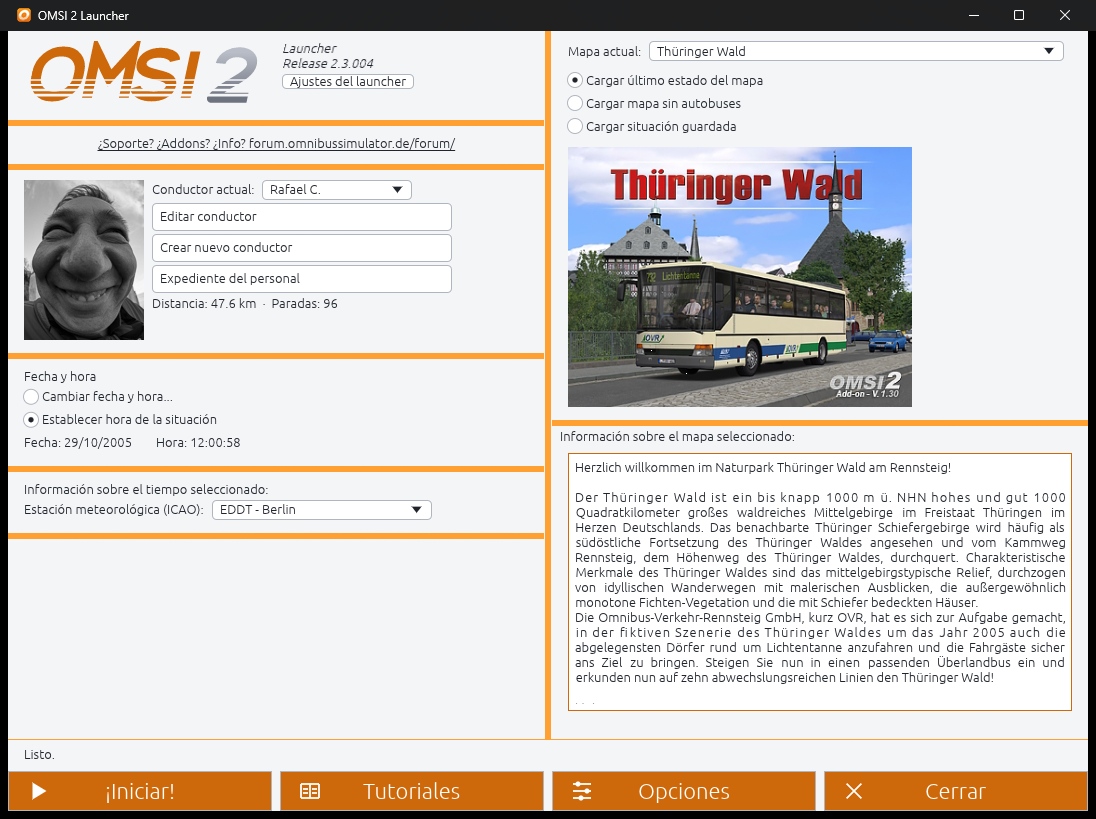
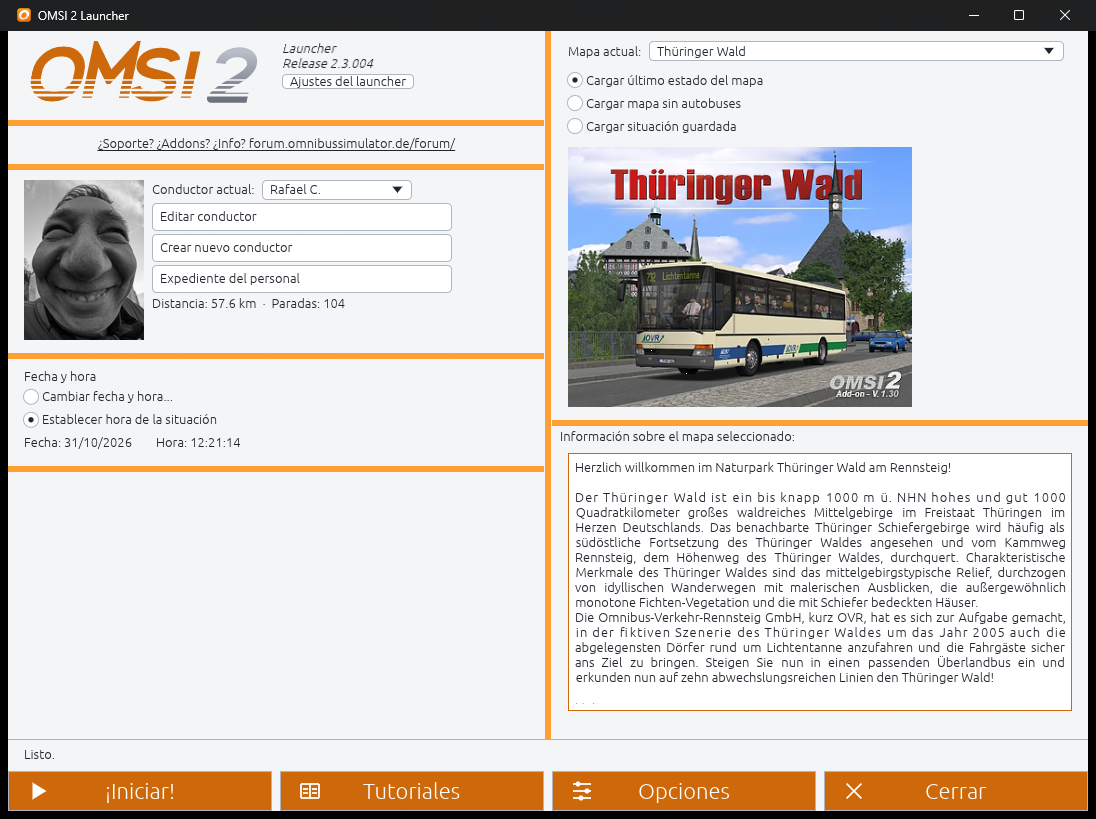
Hide the empty time-information box, taller settings area, new screenshots

Changed region(s): [[0.0, 0.58, 0.4964, 0.6716], [0.1861, 0.5189, 0.2172, 0.5495]]

diff --git a/src/main.rs b/src/main.rs
@@ -621,7 +621,7 @@ impl App {
                 }
             });
             ui.add_space(8.0);
-            egui::ScrollArea::vertical().max_height(240.0).min_scrolled_height(240.0).auto_shrink([false, false]).show(ui, |ui| {
+            egui::ScrollArea::vertical().max_height(330.0).min_scrolled_height(330.0).auto_shrink([false, false]).show(ui, |ui| {
                 card(ui, tr("Apariencia"), self.settings_tab == 0, &mut |ui| {
                     ui.horizontal(|ui| {
                         ui.label(tr("Idioma del launcher"));
@@ -1238,7 +1238,10 @@ impl eframe::App for App {
                 });
                 section(ui, |ui| self.driver_section(ui, running));
                 section(ui, |ui| self.time_section(ui, running));
-                section(ui, |ui| self.weather_section(ui));
+                // the box exists only when the map has time information for the date (it is empty otherwise)
+                if !self.chrono_text().is_empty() {
+                    section(ui, |ui| self.weather_section(ui));
+                }
 
                 // ------------------------------------------------------------------ right: map
                 let ui = &mut cols[1];
